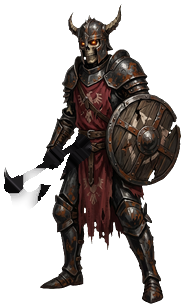
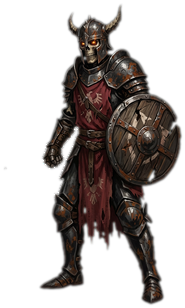
Чистая основа фигуры: клинок не дублируется при взмахе

diff --git a/tools/rig_assets.py b/tools/rig_assets.py
@@ -117,54 +117,236 @@ def dilate(mask: np.ndarray, steps: int) -> np.ndarray:
     return grown
 
 
+def _mirror_fill(rgb: np.ndarray, mask: np.ndarray,
+                 solid: np.ndarray) -> tuple:
+    """Заполняет прорезь отражением второй половины фигуры.
+
+    Возвращает картинку и карту уже заполненных пикселей: остальное добирает
+    восстановление по краям, чтобы не портить готовую фактуру.
+    """
+    rgb = rgb.copy()
+    height, width = mask.shape
+    done = np.zeros_like(mask)
+    rows, cols = np.nonzero(mask & solid)
+    if rows.size == 0:
+        return rgb, done
+    for offset in (0, 2, -2, 4, -4, 6, -6, 10, -10):
+        mirrored = np.clip(width - 1 - cols + offset, 0, width - 1)
+        usable = (solid[rows, mirrored] & (~mask[rows, mirrored])
+                  & (~done[rows, cols]))
+        if usable.any():
+            rgb[rows[usable], cols[usable]] = rgb[rows[usable], mirrored[usable]]
+            done[rows[usable], cols[usable]] = True
+    return rgb, done
+
+
+def _spread_fill(rgb: np.ndarray, mask: np.ndarray, solid: np.ndarray) -> np.ndarray:
+    """Распространяет цвет тела внутрь прорези от её краёв."""
+    rgb = rgb.copy()
+    target = mask & solid
+    done = np.zeros_like(mask)
+    for _step in range(96):
+        rest = target & (~done)
+        if not rest.any():
+            break
+        known = (solid & (~target)) | done
+        acc = np.zeros_like(rgb)
+        cnt = np.zeros(mask.shape, dtype=np.float64)
+        for dy, dx in ((1, 0), (-1, 0), (0, 1), (0, -1), (1, 1), (-1, -1), (1, -1), (-1, 1)):
+            shifted_known = np.roll(np.roll(known, dy, axis=0), dx, axis=1)
+            shifted_rgb = np.roll(np.roll(rgb, dy, axis=0), dx, axis=1)
+            acc += shifted_rgb * shifted_known[:, :, None]
+            cnt += shifted_known.astype(np.float64)
+        grow = rest & (cnt > 0)
+        if not grow.any():
+            break
+        rgb[grow] = acc[grow] / cnt[grow, None]
+        done |= grow
+    return rgb
+
+
+def inpaint_hole(rgb: np.ndarray, mask: np.ndarray, solid: np.ndarray,
+                 config: dict) -> np.ndarray:
+    """Затягивает прорезь от оружия фактурой самой фигуры.
+
+    Складки ткани идут сверху вниз, поэтому прорезь проще всего продолжить
+    сдвинутой копией тела: берём пиксель ниже по вертикали и подставляем его
+    в дырку. Остальное (где сдвиг не достаёт) добирает гладкая заливка.
+    """
+    height, width = mask.shape
+    target = mask & solid
+    filled = rgb.copy()
+    done = np.zeros_like(mask)
+    step = int(config.get("shift_pixels", 46))
+    for offset in (step, -step, step * 2, -step * 2, int(step * 1.5), -int(step * 1.5)):
+        ys = np.clip(np.arange(height) + offset, 0, height - 1)
+        candidate = rgb[ys, :]
+        usable = target & (~done) & solid[ys, :] & (~mask[ys, :])
+        filled[usable] = candidate[usable]
+        done |= usable
+    rest = target & (~done)
+    if rest.any():
+        smooth = np.asarray(Image.fromarray(np.clip(filled, 0, 255).astype(np.uint8))
+                            .filter(ImageFilter.GaussianBlur(6.0))).astype(np.float32)
+        filled[rest] = smooth[rest]
+    # Мягкий шов и тень: прорезь читается как затенённое место под оружием.
+    layer = Image.fromarray(np.clip(filled, 0, 255).astype(np.uint8))
+    soft = np.asarray(layer.filter(ImageFilter.GaussianBlur(2.0))).astype(np.float32)
+    band = dilate(mask, 2) & solid
+    filled[band] = (filled[band] * 0.45 + soft[band] * 0.55) * 0.86
+    return filled
+
+
+def inside_body(solid: np.ndarray, cut: np.ndarray, config: dict) -> np.ndarray:
+    """Какие пиксели прорези лежат внутри фигуры, а какие торчали в воздух.
+
+    Считаем расстояние до ближайшего пикселя тела: узкая полоса под оружием
+    всегда рядом с тканью, а клинок, уходящий за силуэт, оказывается далеко.
+    """
+    from scipy.ndimage import distance_transform_edt
+
+    body = solid & (~cut)
+    if not body.any():
+        return np.zeros_like(cut)
+    distance = distance_transform_edt(~body)
+    radius = float((config.get("segments") or [{}])[0].get("radius", 12))
+    limit = float(config.get("inside_pixels", round(radius) + 10))
+    return cut & (distance <= limit)
+
+
+def clean_base(image: Image.Image, config: dict, weapon: np.ndarray) -> np.ndarray:
+    """Готовая фигура без оружия, выровненная по исходной картинке.
+
+    Художник рисует фигуру с оружием, поэтому прорезь нечем заполнить. Для
+    таких персонажей рядом лежит чистая основа (``clean_body``): та же фигура
+    без оружия. Здесь она матируется, масштабируется под исходник и
+    подставляется только в полосу оружия — вся остальная графика остаётся
+    исходной.
+    """
+    from scipy import ndimage
+
+    path = ROOT / str(config.get("clean_body", "")).replace("res://", "")
+    original = np.asarray(image).astype(np.float32)
+    if not path.is_file():
+        return original
+    clean = np.asarray(Image.open(path).convert("RGBA")).astype(np.float32)
+    alpha = clean[:, :, 3]
+    if alpha.min() > 250:
+        # Шахматный фон мог быть запечён в картинку: убираем светлые поля,
+        # связанные с краем кадра.
+        light = (clean[:, :, :3].min(axis=2) > 195) & (
+            clean[:, :, :3].max(axis=2) - clean[:, :, :3].min(axis=2) < 24)
+        labels, count = ndimage.label(light)
+        border = set(labels[0, :]) | set(labels[-1, :]) | set(labels[:, 0]) | set(labels[:, -1])
+        border.discard(0)
+        background = np.isin(labels, list(border)) if border else np.zeros_like(light)
+        alpha = np.where(background, 0.0, 255.0)
+    solid = alpha > 40
+    solid = ndimage.binary_fill_holes(solid)
+    labels, count = ndimage.label(solid)
+    if count:
+        sizes = ndimage.sum(solid, labels, range(1, count + 1))
+        keep = np.isin(labels, [index + 1 for index, size in enumerate(sizes) if size > 400])
+        solid = solid & keep
+    clean[:, :, 3] = np.where(solid, 255.0, 0.0)
+    # Светлые точки от шахматного фона внутри фигуры.
+    for _step in range(4):
+        light = solid & (clean[:, :, :3].min(axis=2) > 195) & (
+            clean[:, :, :3].max(axis=2) - clean[:, :, :3].min(axis=2) < 24)
+        if not light.any():
+            break
+        median = np.stack([ndimage.median_filter(clean[:, :, index], size=5) for index in range(3)], axis=2)
+        clean[:, :, :3] = np.where(light[:, :, None], median, clean[:, :, :3])
+    ready = Image.fromarray(np.clip(clean, 0, 255).astype(np.uint8), "RGBA")
+    return align_to_original(ready, image)
+
+
+def align_to_original(clean: Image.Image, original: Image.Image) -> np.ndarray:
+    """Подгоняет чистую фигуру под исходник: высота, ступни, центр корпуса."""
+    base = np.asarray(original).astype(np.float32)
+    cleaned = np.asarray(clean).astype(np.float32)
+    base_solid = base[:, :, 3] > 40
+    clean_solid = cleaned[:, :, 3] > 40
+    if not clean_solid.any():
+        return base
+    base_rows, base_cols = np.nonzero(base_solid)
+    clean_rows, clean_cols = np.nonzero(clean_solid)
+    base_height = base_rows.max() - base_rows.min() + 1
+    clean_height = clean_rows.max() - clean_rows.min() + 1
+    scale = base_height / max(1, clean_height)
+    size = (max(1, int(round(clean.width * scale))), max(1, int(round(clean.height * scale))))
+    resized = np.asarray(clean.resize(size, Image.LANCZOS)).astype(np.float32)
+    rows, cols = np.nonzero(resized[:, :, 3] > 40)
+    if rows.size == 0:
+        return base
+    torso = rows < rows.mean()
+    dx = int(round(base_cols[base_rows < base_rows.mean()].mean() - cols[torso].mean()))
+    dy = int(round(base_rows.max() - rows.max()))
+    canvas = np.zeros_like(base)
+    height, width = base.shape[:2]
+    ys = np.arange(resized.shape[0]) + dy
+    xs = np.arange(resized.shape[1]) + dx
+    valid_y = (ys >= 0) & (ys < height)
+    valid_x = (xs >= 0) & (xs < width)
+    canvas[np.ix_(ys[valid_y], xs[valid_x])] = resized[np.ix_(np.nonzero(valid_y)[0], np.nonzero(valid_x)[0])]
+    return canvas
+
+
 def build(image: Image.Image, config: dict) -> tuple:
-    # Захватываем и свечение вокруг клинка: иначе оно остаётся на теле
-    # и заливка прорези подкрашивает её в красный.
-    mask = dilate(weapon_mask(image, config), int(config.get("grow_pixels", 3)))
+    """Возвращает тело, слой оружия и маску оружия."""
+    from scipy import ndimage
+
+    core = dilate(weapon_mask(image, config), int(config.get("grow_pixels", 3)))
     # Оружие: мягкая кромка, чтобы поворот не давал рваных краёв.
-    soft = Image.fromarray((mask * 255).astype(np.uint8)).filter(ImageFilter.GaussianBlur(0.8))
-    blade = np.asarray(image).astype(np.float32)
+    soft = Image.fromarray((core * 255).astype(np.uint8)).filter(ImageFilter.GaussianBlur(0.8))
+    source = np.asarray(image).astype(np.float32)
+    blade = source.copy()
     blade[:, :, 3] = blade[:, :, 3] * (np.asarray(soft).astype(np.float32) / 255.0)
     blade_image = Image.fromarray(np.clip(blade, 0, 255).astype(np.uint8))
 
-    # Тело: вырезаем оружие и заливаем прорезь цветом самой фигуры.
-    body = np.asarray(image).astype(np.float32)
-    body[mask, 3] = 0.0
-    # Сначала затягиваем цвета фигуры в прозрачные пиксели, иначе размытие
-    # подмешивает белый фон PNG и прорезь светится светлой полосой.
-    for _step in range(14):
-        known = body[:, :, 3] > 24
-        total = np.zeros_like(body[:, :, :3])
-        weight = np.zeros_like(body[:, :, :1])
-        for dy, dx in ((1, 0), (-1, 0), (0, 1), (0, -1), (1, 1), (-1, -1), (1, -1), (-1, 1)):
-            shifted_known = np.roll(np.roll(known, dy, axis=0), dx, axis=1)
-            shifted_rgb = np.roll(np.roll(body[:, :, :3], dy, axis=0), dx, axis=1)
-            total += shifted_rgb * shifted_known[:, :, None]
-            weight += shifted_known[:, :, None]
-        fillable = (~known) & (weight[:, :, 0] > 0)
-        body[:, :, :3] = np.where(fillable[:, :, None], total / np.maximum(weight, 1.0), body[:, :, :3])
-        body[:, :, 3] = np.where(fillable, 255.0, body[:, :, 3])
+    body = source.copy()
+    if config.get("clean_body"):
+        # Полоса оружия берётся из заранее нарисованной чистой фигуры.
+        clean = clean_base(image, config, core)
+        band = ndimage.binary_dilation(core, iterations=int(config.get("patch_pixels", 9)))
+        # В полосе оружия берём чистую основу целиком, включая прозрачность:
+        # иначе остаются красная нить свечения и чёрные пятна.
+        body[:, :, 3] = np.where(band, clean[:, :, 3], source[:, :, 3])
+        substituted = band[:, :, None] & (clean[:, :, 3:] > 0)
+        body[:, :, :3] = np.where(substituted, clean[:, :, :3], source[:, :, :3])
+        body[:, :, 3] = ndimage.gaussian_filter(body[:, :, 3], 0.9)
+    else:
+        # Запасной путь: затягиваем прорезь соседними пикселями.
+        solid = source[:, :, 3] > 24
+        body[:, :, :3] = inpaint_hole(body[:, :, :3], core, solid, config)
+    body[:, :, :3] = _fix_alpha_border(body[:, :, :3], body[:, :, 3])
     body_image = Image.fromarray(np.clip(body, 0, 255).astype(np.uint8))
-    for _step in range(8):
-        blurred = np.asarray(body_image.filter(ImageFilter.GaussianBlur(2.0))).astype(np.float32)
-        current = np.asarray(body_image).astype(np.float32)
-        hole = mask & (current[:, :, 3] < 40)
-        current[hole] = blurred[hole]
-        body_image = Image.fromarray(np.clip(current, 0, 255).astype(np.uint8))
-    # Возвращаем прозрачность за пределами фигуры: заливка не должна рисовать фон.
-    restored = np.asarray(body_image).astype(np.float32)
-    outside = np.asarray(image).astype(np.float32)[:, :, 3] <= 24
-    restored[outside, 3] = 0.0
-    body_image = Image.fromarray(np.clip(restored, 0, 255).astype(np.uint8))
-    # Прорезь должна читаться как тень от оружия: гасим цвет до серого и темним,
-    # иначе на теле остаётся «призрак» клинка.
-    filled = np.asarray(body_image).astype(np.float32)
-    luminance = (filled[mask, 0] * 0.3 + filled[mask, 1] * 0.59 + filled[mask, 2] * 0.11) * 0.72
-    filled[mask, 0] = luminance
-    filled[mask, 1] = luminance * 0.94
-    filled[mask, 2] = luminance * 1.02
-    body_image = Image.fromarray(np.clip(filled, 0, 255).astype(np.uint8))
-    return body_image, blade_image, mask
+    return body_image, blade_image, core
+
+
+def _fix_alpha_border(rgb: np.ndarray, alpha: np.ndarray) -> np.ndarray:
+    """Красит прозрачные пиксели цветом фигуры, как импорт Godot.
+
+    Иначе при масштабировании прозрачные пиксели с чужим цветом дают кайму.
+    """
+    rgb = rgb.copy()
+    known = alpha > 24
+    for _step in range(12):
+        if known.all():
+            break
+        acc = np.zeros_like(rgb)
+        cnt = np.zeros(alpha.shape, dtype=np.float64)
+        for dy, dx in ((1, 0), (-1, 0), (0, 1), (0, -1)):
+            shifted_known = np.roll(np.roll(known, dy, axis=0), dx, axis=1)
+            shifted_rgb = np.roll(np.roll(rgb, dy, axis=0), dx, axis=1)
+            acc += shifted_rgb * shifted_known[:, :, None]
+            cnt += shifted_known.astype(np.float64)
+        grow = (~known) & (cnt > 0)
+        if not grow.any():
+            break
+        rgb[grow] = acc[grow] / cnt[grow, None]
+        known |= grow
+    return rgb
 
 
 def preview(name: str, image: Image.Image, body: Image.Image, blade: Image.Image,

diff --git a/tools/validate_repo.py b/tools/validate_repo.py
@@ -778,7 +778,7 @@ else:
         if not isinstance(entry, dict):
             err(f"data/balance.json: риг {character_id} должен быть объектом")
             continue
-        for key in ("body", "blade"):
+        for key in ("body", "blade", "clean_body"):
             rel = str(entry.get(key, "")).replace("res://", "")
             if not rel or not (ROOT / rel).is_file() or not (ROOT / (rel + ".import")).is_file():
                 err(f"data/balance.json: у рига {character_id} нет файла {key}")

diff --git a/tools/render_dump.py b/tools/render_dump.py
@@ -57,8 +57,8 @@ def _warp(piece, xform, canvas_size):
     det = a * d - b_ * c_
     if abs(det) < 1e-6:
         return Image.new('RGBA', canvas_size, (0, 0, 0, 0))
-    ia, ib = d / det, -b_ / det
-    ic, id_ = -c_ / det, a / det
+    ia, ib = d / det, -c_ / det
+    ic, id_ = -b_ / det, a / det
     # PIL ждёт обратное отображение: output -> input.
     coeffs = (ia, ib, -(ia * tx + ib * ty),
               ic, id_, -(ic * tx + id_ * ty))

diff --git a/docs/android.md b/docs/android.md
@@ -19,7 +19,7 @@
 4. На устройстве с ограниченной производительностью включить 30 FPS и упрощённый режим эффектов. Фоновые частицы, всплывающие подписи и подсветки должны отключиться, а журнал боя, полосы здоровья и управление остаться рабочими.
 5. Сравнить полный и упрощённый режимы в боссовом бою. В служебной строке виден замер `КАДРЫ …`; цель проекта — стабильные 60 FPS на целевом устройстве, 30 FPS допустимы как экономичный вариант.
 6. Проверить все шесть подписанных кнопок нижней навигации: `БОЙ`, `ИНВЕНТАРЬ`, `ПРИЗЫВ`, `ПРОГРЕССИЯ`, `РЕЖИМЫ`, `НАСТРОЙКИ`. Каждая кнопка с локальной иконкой и подписью открывает свой реальный раздел; заголовок меняется, активный раздел выделен и показывает `СКРЫТЬ`, одновременно открыта одна рабочая панель, длинные подписи не обрезаются и не требуют горизонтальной прокрутки, а боковой колонки иконок больше нет.
-7. Проверить ручной удар, щит, автобой, победу, переход этапа, раздел трёх режимов, Башню и подземелье. Эффекты должны оставаться ограниченными пулом из `presentation.effect_pool.capacity`. При каждом ударе фигуры должны двигаться: герой делает шаг к врагу и замахивается мечом, латник — топором, защитник отшатывается, и всё возвращается на место; клинок не должен дёргаться отдельно от кисти. Числа урона, `КРИТ`, название навыка и `ЩИТ` появляются одновременно, но не наезжают друг на друга и не закрывают строку здоровья героя и имя врага.
+7. Проверить ручной удар, щит, автобой, победу, переход этапа, раздел трёх режимов, Башню и подземелье. Эффекты должны оставаться ограниченными пулом из `presentation.effect_pool.capacity`. При каждом ударе фигуры должны двигаться: герой делает шаг к врагу и замахивается мечом, латник — топором, защитник отшатывается, и всё возвращается на место; клинок не должен дёргаться отдельно от кисти и не должен дублироваться: в стойке в руке одно оружие, при взмахе на месте клинка не остаётся второго. Числа урона, `КРИТ`, название навыка и `ЩИТ` появляются одновременно, но не наезжают друг на друга и не закрывают строку здоровья героя и имя врага.
 8. Проверить поворот/разные соотношения сторон в портретной ориентации, отсутствие мини-карты и джойстика, а также некликабельность декоративных блоков `СКОРО`. Панели не выходят за экран, заглушки не открывают пустые экраны, а частицы центрируются при изменении размера области отображения. Отдельно стоит посмотреть телефон 19.5:9 или 20:9 и планшет 4:3: на вытянутом экране боевая группа опускается к навигации без пустой полосы, на широком — арена тянется вправо, кластер навыков остаётся в правом нижнем углу, а ни одна подпись не обрезана. Имена врагов и подсказка над ареной должны читаться поверх факелов и луны благодаря тёмному ореолу букв.
 9. Свернуть приложение, вернуться позже и проверить локальное сохранение и AFK-награду до 12 часов. Закрыть приложение полностью и убедиться, что прогресс и настройки восстановились.
 10. Повторить короткую сессию без сети и убедиться в отсутствии зависаний, утечек звука, ошибок в логах и самопроизвольных сетевых запросов.

diff --git a/README.md b/README.md
@@ -311,7 +311,7 @@ AshenWorld/
 - Нижняя навигация одной полосой во всю ширину: `БОЙ`, `ИНВЕНТАРЬ`, `ПРИЗЫВ`, `ПРОГРЕССИЯ`, `РЕЖИМЫ`, `НАСТРОЙКИ` — у каждой кнопки локальная иконка и подпись под ней, активный раздел залит золотом, подсвечен мягким свечением и показывает тёмную иконку с подписью, при нажатии и недоступности у кнопок свои состояния. Панель навигации стала ниже прежней, но остаётся крупной областью нажатия. Боковая колонка иконок и сетка `3 × 2` удалены.
 - Мини-карта и джойстик удалены. События, задания, лавка и зелья показаны только некликабельным декором с подписью `СКОРО` до будущего обновления; рейтинг считается локально и показан в карточке профиля; фиктивных кнопок и пустых онлайн-экранов нет.
 - Крупные читаемые шрифты: базовый размер 20, рабочий минимум 18, заголовки 22–30; все параметры заданы в `presentation.interface` файла `data/balance.json`.
-- Эффекты боя подчёркивают действия и не закрывают фигуры: атакующий делает шаг к противнику с наклоном корпуса, а его оружие замахивается и бьёт — готовые фигуры нарезаны на тело и клинок, и меч героя с топором латника вращаются вокруг кисти (`tools/rig_assets.py`). Защитник отшатывается, а всплывающие подписи расходятся по свободным строкам и не наслаиваются друг на друга. Дальше — короткая вспышка по фигуре, вздрагивание масштаба, серп следа оружия и горсть искр из точки удара; крит добавляет искры. Поверженный враг вспыхивает углём и уходит в серый силуэт, оставаясь на месте до конца этапа; уклонение подписано. Все слои — пулы фиксированного размера (`effect_pool.gd`), которые включаются только на время анимации, а режим минимальных эффектов отключает их целиком.
+- Эффекты боя подчёркивают действия и не закрывают фигуры: атакующий делает шаг к противнику с наклоном корпуса, а его оружие замахивается и бьёт — готовые фигуры нарезаны на тело и клинок, и меч героя с топором латника вращаются вокруг кисти, а под клинком лежит чистая основа фигуры без оружия, поэтому второго меча не появляется (`tools/rig_assets.py`). Защитник отшатывается, а всплывающие подписи расходятся по свободным строкам и не наслаиваются друг на друга. Дальше — короткая вспышка по фигуре, вздрагивание масштаба, серп следа оружия и горсть искр из точки удара; крит добавляет искры. Поверженный враг вспыхивает углём и уходит в серый силуэт, оставаясь на месте до конца этапа; уклонение подписано. Все слои — пулы фиксированного размера (`effect_pool.gd`), которые включаются только на время анимации, а режим минимальных эффектов отключает их целиком.
 - Лёгкие анимации интерфейса без избыточных эффектов: пул подписей и подсветок с фиксированным размером. Раздел проявляется за 0.18 c, активная вкладка вспыхивает золотым свечением и гаснет за 0.26 c, окно наград появляется из лёгкого уменьшения, кнопки отзываются коротким сжатием; длительности лежат в `presentation.interface.animations`, Tween-узлы не используются.
 - Настройки звука, частиц, полного или упрощённого режима эффектов и частоты кадров.
 

diff --git a/docs/ui.md b/docs/ui.md
@@ -136,6 +136,8 @@
 
 `EffectPool.swing()` проводит оружие по трём фазам: замах `swing_windup_seconds` 0.10 c с плавным замедлением, удар `swing_strike_seconds` 0.11 c на быстрой кривой и возврат в стойку `swing_recover_seconds` 0.16 c. Углы у каждого персонажа свои и лежат в `rig.characters`: у героя меч уходит на `-62°` в замах и на `+30°` в удар, у латника топор на `-55°` и `+25°`. Вращение идёт вокруг точки хвата `grip`, пересчитанной из координат исходной картинки в координаты узла, поэтому клинок не «плавает» при любом размере фигуры. Фигуры без оружия качаются целиком на `figure_windup_degrees` −8 и `figure_strike_degrees` 6.
 
+**Чистая основа.** Прорезь нельзя залить соседними пикселями: клинок проходит по подолу и ноге, и любая заливка читается вторым мечом. Поэтому у персонажей с оружием рядом с исходной фигурой лежит `clean_body` — та же фигура без оружия (`hero_battle_clean.png`, `bone_legionnaire_clean.png`). `tools/rig_assets.py` матирует её (фон может быть запечён шахматкой), масштабирует по высоте исходника, ставит ступни на тот же уровень, центрирует по корпусу и подставляет только в полосу оружия, расширенную на `patch_pixels` 9. Вне полосы остаётся исходная графика, поэтому в стойке фигура выглядит как раньше. Если чистой основы нет, работает запасной путь — заливка соседними пикселями; тогда на месте клинка остаётся тень, и это заметно.
+
 Взмах запускается из того же события урона, что и шаг: бьёт герой — замахивается его клинок, бьёт враг — замахивается оружие врага, а защитник одновременно отшатывается. Навык начинается с взмаха и шага. В упрощённом режиме эффектов взмах не запускается, при повороте экрана снимается вместе с шагом, а смена фазы эффектов сбрасывает углы в ноль, поэтому фигуры не остаются перекошенными.
 
 ## Разделы и рабочая логика
